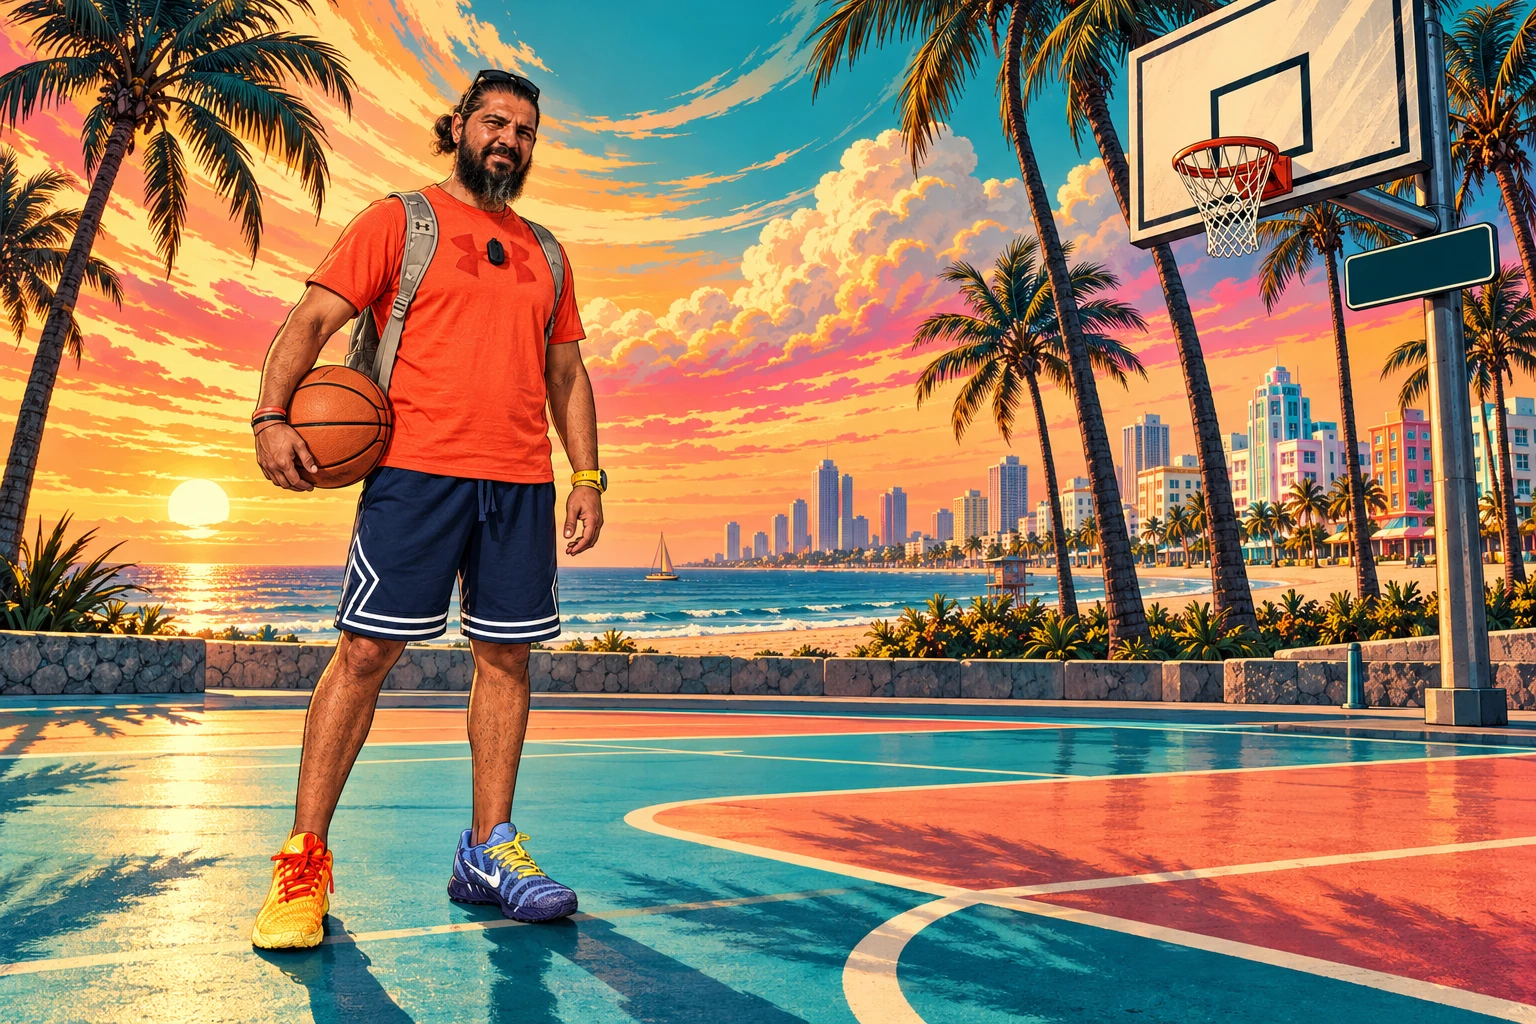
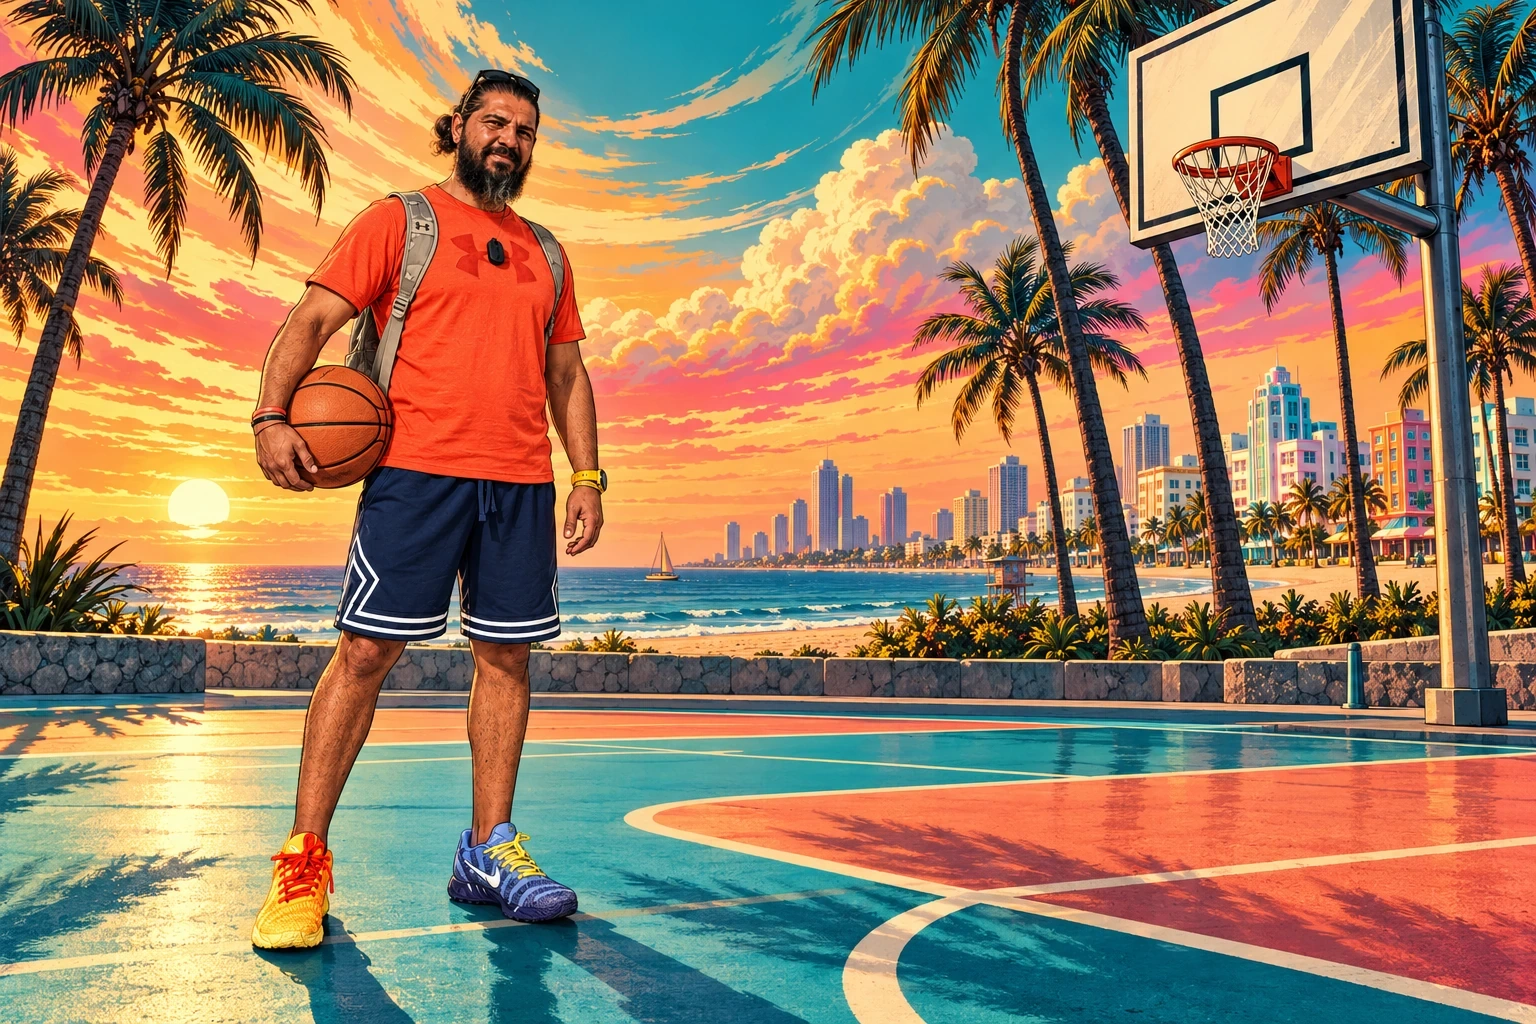
Remove empty Playground plaque and enlarge Ocean Drive neon lettering

Changed region(s): [[0.875, 0.2188, 1.0, 0.3125]]

diff --git a/type-lens/lab.js b/type-lens/lab.js
@@ -148,10 +148,10 @@ function drawSecret(c){
  const story=STORIES[storyIndex];if(!storyImages.has(story.id)||!artReady(story.id))return;
  if(story.id==='playground'){warpArt(c,secretArt.get(story.id),[[1190/1536,65/1024],[1360/1536,13/1024],[1361/1536,87/1024],[1191/1536,132/1024]]);return}
  if(story.id==='rooftop'){warpArt(c,secretArt.get(story.id),[[1058/1536,446/1024],[1405/1536,453/1024],[1370/1536,730/1024],[1018/1536,677/1024]]);return}
- const neon=document.createElement('canvas');neon.width=1200;neon.height=260;const n=neon.getContext('2d');n.textAlign='center';n.textBaseline='middle';let fs=130;n.font=`600 ${fs}px 'Barlow Condensed'`;fs*=Math.min(1,1000/n.measureText('SMARTLABDESIGN').width);n.font=`600 ${fs}px 'Barlow Condensed'`;n.lineJoin='round';
- n.shadowColor='#ff2d87';n.shadowBlur=35;n.strokeStyle='#ff2d87';n.lineWidth=fs*.11;n.strokeText('SMARTLABDESIGN',600,130);
- n.shadowColor='#00bfc4';n.shadowBlur=17;n.strokeStyle='#00bfc4';n.lineWidth=fs*.065;n.strokeText('SMARTLABDESIGN',600,130);
- n.shadowBlur=3;n.fillStyle='#fff0ce';n.fillText('SMARTLABDESIGN',600,130);n.strokeStyle='#ffffff';n.lineWidth=fs*.015;n.strokeText('SMARTLABDESIGN',600,130);
+ const neon=document.createElement('canvas');neon.width=1200;neon.height=220;const n=neon.getContext('2d');n.textAlign='center';n.textBaseline='middle';let fs=260;n.font=`600 ${fs}px 'Barlow Condensed'`;fs*=Math.min(1,1100/n.measureText('SMARTLABDESIGN').width);n.font=`600 ${fs}px 'Barlow Condensed'`;n.lineJoin='round';
+ n.shadowColor='#ff2d87';n.shadowBlur=35;n.strokeStyle='#ff2d87';n.lineWidth=fs*.11;n.strokeText('SMARTLABDESIGN',600,110);
+ n.shadowColor='#00bfc4';n.shadowBlur=17;n.strokeStyle='#00bfc4';n.lineWidth=fs*.065;n.strokeText('SMARTLABDESIGN',600,110);
+ n.shadowBlur=3;n.fillStyle='#fff0ce';n.fillText('SMARTLABDESIGN',600,110);n.strokeStyle='#ffffff';n.lineWidth=fs*.015;n.strokeText('SMARTLABDESIGN',600,110);
  warpArt(c,neon,[[1180/1536,271/1024],[1449/1536,187/1024],[1449/1536,247/1024],[1180/1536,309/1024]]);
 }
 function cancelDiscovery(){clearTimeout(discoveryTimer);discoveryTimer=0;discoveryCandidate=null}
